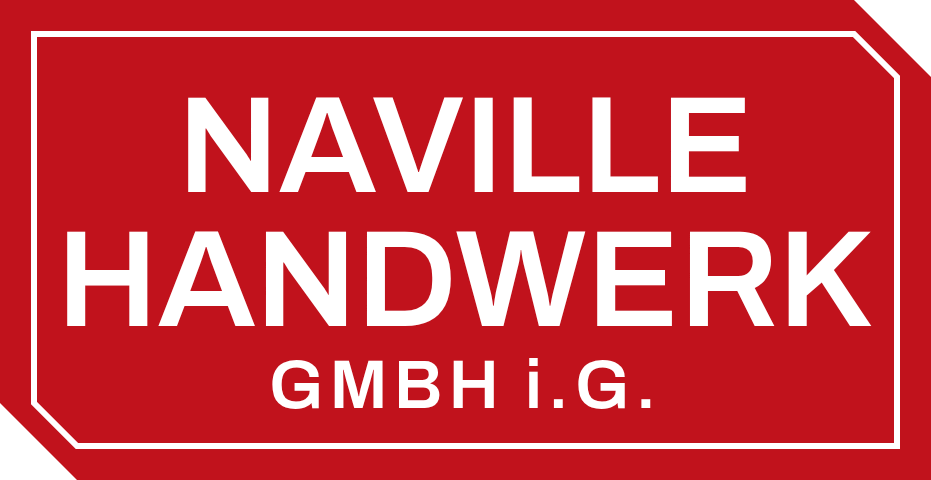
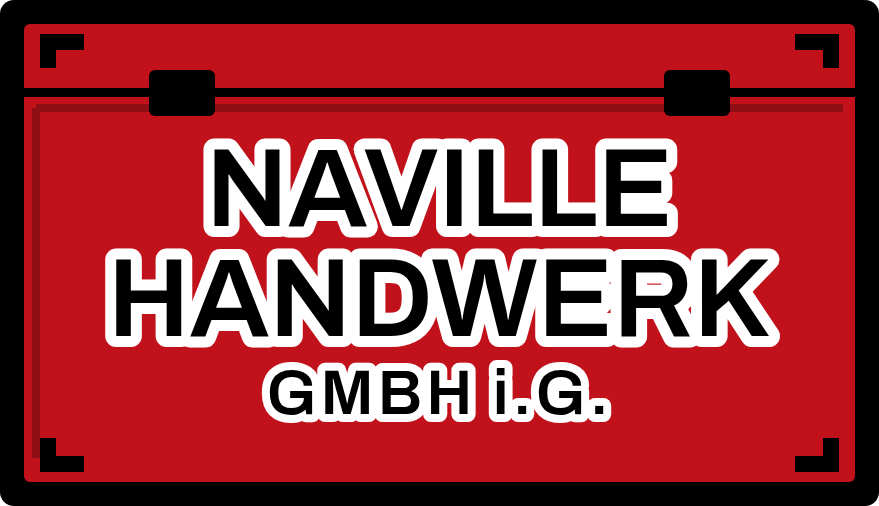
Emblem: Comic-Pipeline fuer alle Fassungen + roter Werkzeugkasten + Rad-Fix
- build_comic.py: baut alle 6 Emblem-Fassungen aufs Comic-Design. Comic-Umriss
  auf der transparenten Fassung berechnen, dann auf Creme/Rot setzen (loest das
  Alpha-Trick-Problem der nicht-transparenten Fassungen).
- sign_box_ig_red.html: rotes Werkzeugkasten-Schild (Creme-Details) fuer die
  einfarbig-roten Fassungen.
- lockup/emblem_full.png + emblem_sign.png: auf Comic-Emblem/-Kasten aktualisiert.
- Rad-Fix: laced-Rad kleiner/hoeher zentriert -> Anhaengerrad lag 11px zu hoch;
  GEO trdy 12->23 (ganzen Anhaenger runter). README (newdesign) aktualisiert.

Claude-Session: https://claude.ai/code/session_01XzbEZgU1FZLNMLunqvoVxk

diff --git a/brand/emblem/newdesign/sign_box_ig_red.html b/brand/emblem/newdesign/sign_box_ig_red.html
@@ -1,0 +1,28 @@
+<!doctype html><html><head><meta charset="utf-8"><style>
+@font-face{font-family:'Archivo';font-weight:600;src:url("file:///home/eric/naville_handwerk/tmp/_render/archivo-600.woff2") format('woff2');}
+html,body{margin:0;padding:0;background:transparent}
+</style></head><body>
+<!-- EINFARBIG ROT: Kasten/Platte = Rot (Ink), Details = Creme (Papier-Aussparung) -->
+<svg xmlns="http://www.w3.org/2000/svg" width="931" height="580" viewBox="0 0 931 580">
+  <!-- Kasten-Koerper: rot -->
+  <rect x="26" y="62" width="879" height="506" rx="14" fill="#C1121C"/>
+  <!-- Front-Platte: rot mit Creme-Rahmen (delineiert die Schildflaeche) -->
+  <rect x="50" y="86" width="831" height="458" rx="6" fill="#C1121C" stroke="#FAF6EF" stroke-width="9"/>
+  <!-- Deckelnaht -->
+  <rect x="50" y="150" width="831" height="9" fill="#FAF6EF"/>
+  <!-- Schnappverschluesse -->
+  <rect x="175" y="132" width="66" height="46" rx="6" fill="#FAF6EF"/>
+  <rect x="690" y="132" width="66" height="46" rx="6" fill="#FAF6EF"/>
+  <!-- Eckbeschlaege -->
+  <path d="M74 130 V104 H110" fill="none" stroke="#FAF6EF" stroke-width="16" stroke-linejoin="miter"/>
+  <path d="M857 130 V104 H821" fill="none" stroke="#FAF6EF" stroke-width="16" stroke-linejoin="miter"/>
+  <path d="M74 500 V526 H110" fill="none" stroke="#FAF6EF" stroke-width="16" stroke-linejoin="miter"/>
+  <path d="M857 500 V526 H821" fill="none" stroke="#FAF6EF" stroke-width="16" stroke-linejoin="miter"/>
+  <!-- Firmenname: Creme (Papier-Aussparung) -->
+  <g fill="#FAF6EF" font-family="Archivo" font-weight="600" text-anchor="middle">
+    <text x="465.5" y="288" font-size="112">NAVILLE</text>
+    <text x="465.5" y="398" font-size="112">HANDWERK</text>
+    <text x="465.5" y="476" font-size="63" letter-spacing="4">GMBH i.G.</text>
+  </g>
+</svg>
+</body></html>

diff --git a/brand/emblem/newdesign/build_comic.py b/brand/emblem/newdesign/build_comic.py
@@ -1,0 +1,78 @@
+#!/usr/bin/env python3
+# Baut alle 6 Comic-Emblem-Fassungen fuer logo/.
+#  - schwarzrot: schwarzes Werkzeugkasten-Schild + Comic-Umriss (schwarz).
+#  - rot (einfarbig): rotes Werkzeugkasten-Schild (Creme-Details), KEIN schwarzer Umriss.
+# Comic-Umriss wird auf der transparenten Fassung (Vollcanvas) berechnet und dann auf
+# Creme/Rot gesetzt -> loest das "Alpha-Trick greift nur transparent"-Problem.
+import importlib.util, sys, os, shutil
+from PIL import Image, ImageFilter, ImageDraw
+import numpy as np
+
+BASE="/home/eric/naville_handwerk/tmp"
+spec=importlib.util.spec_from_file_location("g", BASE+"/_gen.py")
+g=importlib.util.module_from_spec(spec); spec.loader.exec_module(g)
+R=BASE+"/_render"
+
+ROT=(193,18,28); BLACK=(0,0,0); CREME=(250,246,239); ANTH=(35,37,43)
+GEO=dict(trshift=90, wshift=55, trdy=23, presign=False)  # trdy 12->23: laced-Rad 11px zu hoch -> ganzen Anhaenger runter
+BLK=("bike2x_blk.png","bed2x_blk.png","wheel2x_blk.png")
+RED=("bike2x_red.png","bed2x_red.png","wheel2x_red.png")
+
+def use_sign(which):  # "blk" | "red"
+    shutil.copy(R+"/sign_"+which+".png", R+"/sign.png")
+
+def transparent(assets, drawcol):
+    return g.emblem(*assets, drawcol, "trans", shadow=False, **GEO)          # 1500x700 RGBA
+
+def on_creme(assets, drawcol, shadowcol):
+    return g.emblem(*assets, drawcol, CREME, shadow=True, shadowcol=shadowcol,
+                    wheeldisc=True, disccol=CREME, **GEO).convert("RGBA")     # 1500x700
+
+def comic_outline_full(im, outer=9, redln=9):
+    # wie comic_outline.py, aber OHNE Endbeschnitt (Vollcanvas, fuer Komposition)
+    a=np.array(im.convert("RGBA")); rgb=a[:,:,:3].astype(int); al=a[:,:,3]
+    ink = al>110
+    red = (rgb[:,:,0]>100)&(rgb[:,:,1]<95)&(rgb[:,:,2]<95)&ink
+    def dil(mask,s): return np.array(Image.fromarray((mask*255).astype(np.uint8)).filter(ImageFilter.MaxFilter(s)))>128
+    bg=Image.fromarray(((~ink)*255).astype(np.uint8)); ImageDraw.floodfill(bg,(0,0),128)
+    outside=np.array(bg)==128
+    filled = ink | ((~ink) & (~outside))
+    outer_ring = dil(filled,outer) & (~filled)
+    red_ring   = dil(red,redln) & (~ink)
+    ring = outer_ring | red_ring
+    res=a.copy(); res[ring]=[0,0,0,255]
+    return Image.fromarray(res,"RGBA")
+
+def trim(im):
+    a=np.array(im); ys,xs=np.where(a[:,:,3]>8)
+    return im.crop((xs.min(),ys.min(),xs.max()+1,ys.max()+1))
+
+def halo_on_red(emb_full, maxf=19):
+    a=np.array(emb_full)[:,:,3]
+    dil=np.array(Image.fromarray(a).filter(ImageFilter.MaxFilter(maxf)))
+    rim=np.clip(dil.astype(int)-a.astype(int),0,255).astype(np.uint8)
+    rimimg=np.zeros((emb_full.height,emb_full.width,4),np.uint8); rimimg[:,:,0:3]=255; rimimg[:,:,3]=rim
+    b=Image.new("RGBA",emb_full.size,ROT+(255,)); b.alpha_composite(Image.fromarray(rimimg)); b.alpha_composite(emb_full)
+    return b.convert("RGB")
+
+L=sys.argv[1]; os.makedirs(L, exist_ok=True)
+
+# ---------- SCHWARZROT (schwarzes Schild + Comic-Umriss) ----------
+use_sign("blk")
+blk_full = comic_outline_full(transparent(BLK, BLACK), 9, 9)      # 1500x700, ausgeumrisst
+trim(blk_full).save(L+"/emblem-schwarzrot-transparent.png")
+base = on_creme(BLK, BLACK, ANTH); base.alpha_composite(blk_full)
+base.convert("RGB").save(L+"/emblem-schwarzrot-auf-creme.png")
+halo_on_red(blk_full).save(L+"/emblem-schwarzrot-auf-rot.png")
+
+# ---------- ROT einfarbig (rotes Schild, KEIN schwarzer Umriss) ----------
+use_sign("red")
+red_full = transparent(RED, ROT)                                  # 1500x700, kein Umriss
+trim(red_full).save(L+"/emblem-rot-transparent.png")
+on_creme(RED, ROT, ROT).convert("RGB").save(L+"/emblem-rot-auf-creme.png")
+halo_on_red(red_full).save(L+"/emblem-rot-weiss-umrandet-auf-rot.png")
+
+use_sign("blk")  # Standard zuruecksetzen
+# full emblem (transparent, ausgeumrisst) auch fuer Lockups exportieren
+trim(blk_full).save(L+"/_full_blk_outlined.png")
+print("6 Emblem-PNGs + _full_blk_outlined ->", L)